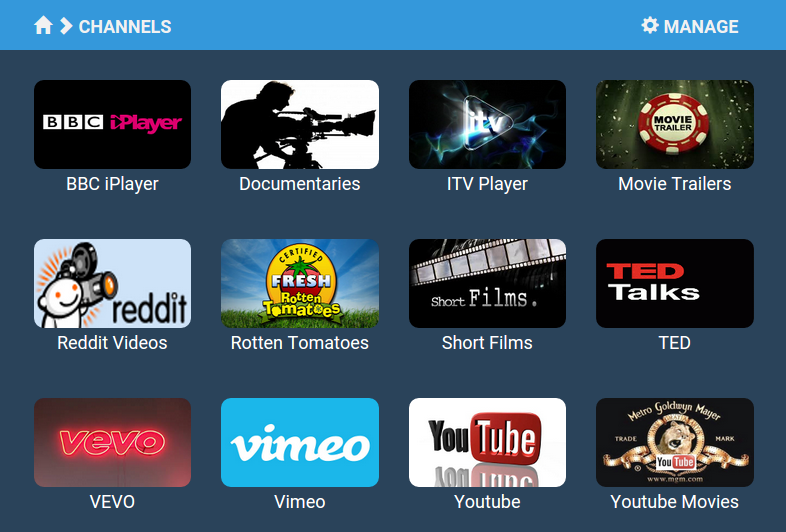
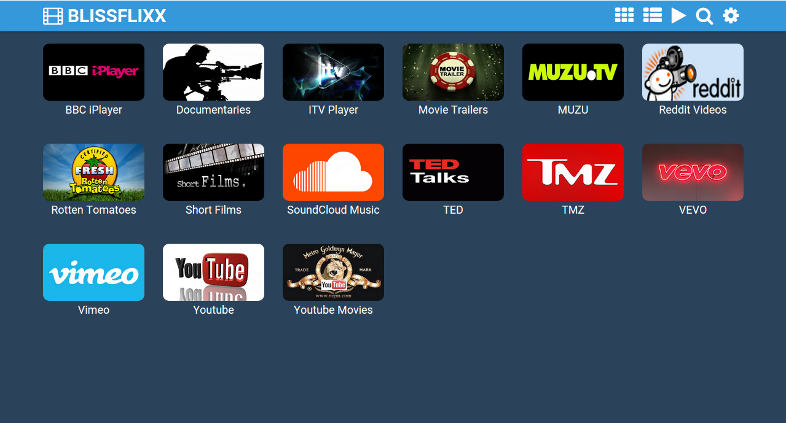
Update website for latest GUI

diff --git a/_posts/2000-01-15-using.md b/_posts/2000-01-15-using.md
@@ -7,19 +7,13 @@ fa-icon: plug
 
 # USING
 
-When you first connect your browser to the BlissFlixx server you should be presented with the following homepage:
+When you first connect your browser to the BlissFlixx server you should be presented with the following page showing your installed channels:
 
-![BlissFlixx Homepage](img/homepage.png)
+![BlissFlixx Homepage](img/channels.png)
 
-The following sections will explore each of the homepage menu items.
+This page will allow you to browse all the channels that you have installed and enabled.
 
-### CHANNELS
-
-This page will allow you to browse all the channels that you have installed and enabled:
-
-![BlissFlixx Channels](img/channels.png)
-
-To remove a channel from this page simple click on the 'MANAGE' link and disable any channels you do not wish to view.
+To remove any channels you are not interested in click on the settings cog icon on the top menu bar and then select the 'MANAGE CHANNELS' option.
 
 Now select a channel such as Youtube Movies. You will then see a screen like the following: 
 
@@ -41,13 +35,13 @@ You can organise your media by creating playlists:
 
 ![Blissflixx playlists](img/playlists.png)
 
-To create a playlist click on the 'NEW PLAYLIST' link and specify a title. You can then go and add a thumbnail and description for the playlist by clicking on the 'Edit Playlist' button.
+To create a playlist click on the 'NEW PLAYLIST' button and specify a title. You can then go and add a thumbnail and description for the playlist by clicking on the 'Edit Playlist' button.
 
 When you are browsing your channels you will have an option to add items to your created playlists.
 
 ### PLAY URL
 
-If you want to play something that is not provided by any of your channels then you can use this page to play it. Simply copy the URL of the page containing the video and paste it into the 'What to Play' box. You will then be able to play and/or add it to a playlist. 
+If you want to play something that is not provided by any of your channels then you can use this page to play it. First select the play icon in the menu bar and then copy the URL of the page containing the video and paste it into the 'What to Play' box. You will then be able to play and/or add it to a playlist. 
 
 Note that you can also play torrents and magnet links by pasting the link as documented above.
 
@@ -55,6 +49,8 @@ Note that you can also play torrents and magnet links by pasting the link as doc
 
 The search page allows you to search all of your channels simultaneously. Simply enter your query terms into the search box and you will be presented with the results grouped by channel.
 
-### RESTART & UPDATE
+### SETTINGS
 
-Clicking on this option will restart and also update the server to the latest release. If you come across any problems make sure you first update the server to the latest version to check if the issue has already been fixed.
+The settings page currently contains two options. The first - MANAGE CHANNELS - allows you to disable or enable any installed channels. 
+
+The second option - RESTART & UPDATE - will restart and also update the server to the latest release. If you come across any problems make sure you first update the server to the latest version to check if the issue has already been fixed.
